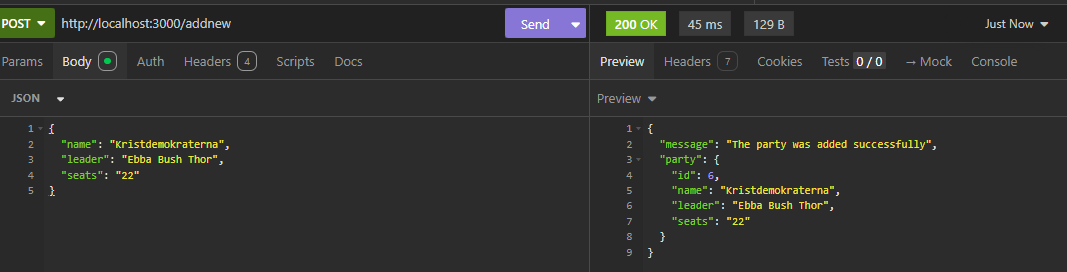
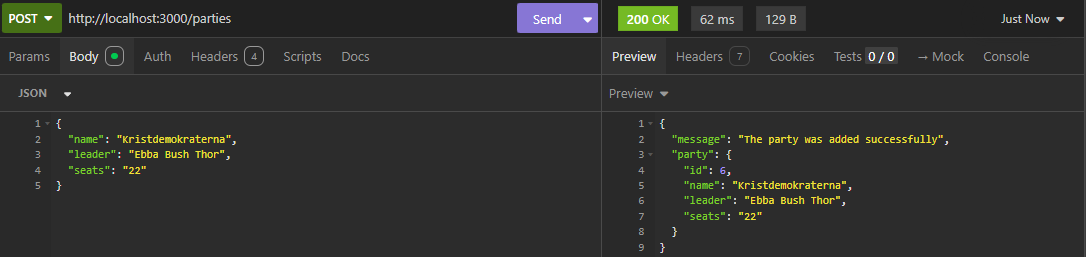
Changed some route names to comply with the assignment instructions exactly

diff --git a/server.ts b/server.ts
@@ -35,7 +35,7 @@ app.get("/parties", (req, res): void => {
   res.json(parties);
 });
 
-app.post("/addnew", (req, res) => {
+app.post("/parties", (req, res) => {
   const newParty: Party = {
     id: parties.length + 1,
     name: req.body.name,
@@ -46,7 +46,7 @@ app.post("/addnew", (req, res) => {
   res.json({ message: "The party was added successfully", party: newParty });
 });
 
-app.put("/party/:id", (req, res): void => {
+app.put("/parties/:id", (req, res): void => {
   const partyId: number = parseInt(req.params.id);
   const party = parties.find((party) => party.id === partyId);
   if (!party) {
@@ -59,7 +59,7 @@ app.put("/party/:id", (req, res): void => {
   res.json({ message: "Party updated successfully", party });
 });
 
-app.delete("/party/:id", (req, res): void => {
+app.delete("/parties/:id", (req, res): void => {
   const partyId: number = parseInt(req.params.id);
   parties = parties.filter((party) => party.id !== partyId);
   res.json({ message: "Party deleted successfully" });

diff --git a/README.md b/README.md
@@ -3,14 +3,17 @@ API documentation (by task number)
 1. Path: "/parties", Method: Get, Returns: a list with some of the largest parties involved in the 2026 swedish elections.
 ![Task-1](/images/task1.png)
 
-2. Path: "/addnew", Method: Post, Returns: a mesasage that confirms that a new party has been added to the list of existing parties
+2. Path: "/parties", Method: Post, Returns: a mesasage that confirms that a new party has been added to the list of existing parties
 ![Task-2](/images/task2.png)
 
 3. An image that confirms that the new party has been added to the list of existing parties, in the last spot
-![Task-2](/images/task3.png)
+![Task-3](/images/task3.png)
 
-4. Path: "/party/:id", Method: Put, Returns: a mesasage that confirms that the party was updated successfully
-![Task-2](/images/task4.png)
+4. Path: "/parties/:id", Method: Put, Returns: a mesasage that confirms that the party was updated successfully
+![Task-4](/images/task4.png)
 
-5. Path: "/party/:id", Method: Put, Returns: a mesasage that presents an error message when the party is not found
-![Task-2](/images/task5.png)
+4. Path: "/parties/:id", Method: Put, Returns: an error mesasage when the party was not found
+![Task-4b](/images/task5.png)
+
+5. Path: "/parties/:id", Method: Delete, Returns: a mesasage that confirms that the party was deleted
+![Task-5](/images/task5.png)
